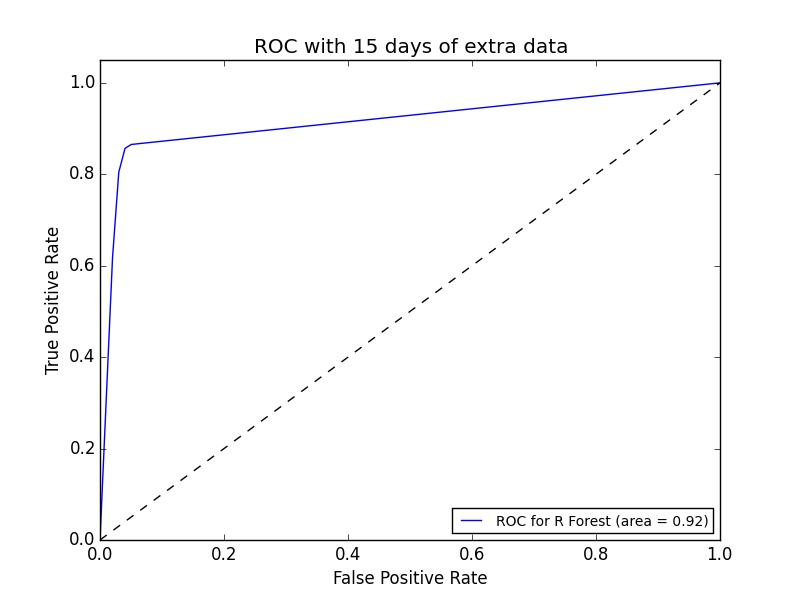
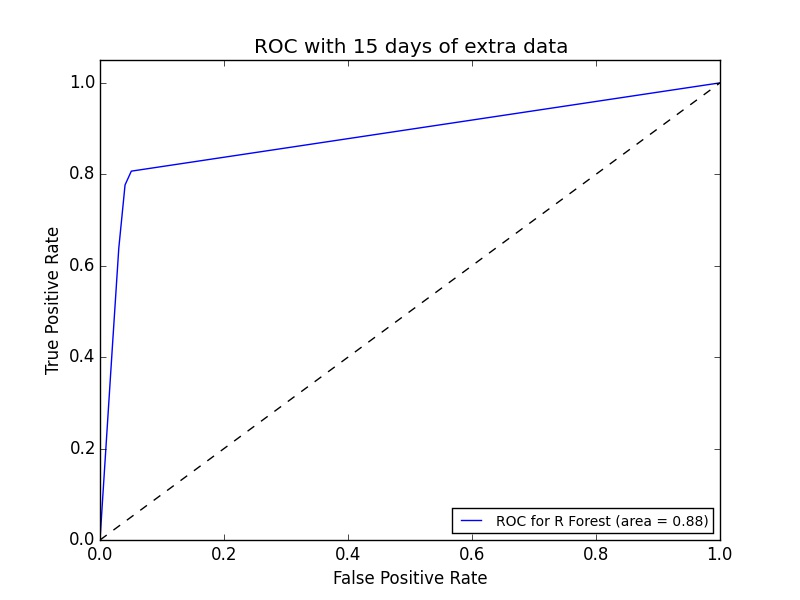
Added ordinal function for days sprayed

diff --git a/capstone/west_nile/src/west_nile_model.py b/capstone/west_nile/src/west_nile_model.py
@@ -179,7 +179,8 @@ def merge_files(in_train_file, in_weather_file, out_file, day):
         # print day_diff.days, traps.iloc[traps_idx, 0], spray.iloc[spray_idx, 0]
         if day_diff.days < 0:
             sprayed[traps_idx] = False
-            last_sprayed[traps_idx] = -1
+            last_sprayed[traps_idx] = 100
+            # last_sprayed[traps_idx] = -1
             traps_idx += 1
         else:
             break
@@ -199,14 +200,9 @@ def merge_files(in_train_file, in_weather_file, out_file, day):
                 date = traps.iloc[trap_idx_last_item, traps_date_idx]
                 if date < next_date:
                     sprayed[trap_idx_last_item] = True
-                    # print  (date - dates_sprayed[index]).days
                     day_diff = (date - dates_sprayed[index]).days
-                    # if day_diff < 14:
-                    #     last_sprayed[trap_idx_last_item] =  1
-                    # else:
-                    #     last_sprayed[trap_idx_last_item] =  2
-                    last_sprayed[trap_idx_last_item] =  day_diff
-
+                    last_sprayed[trap_idx_last_item] = sprayed_since_ordinal(day_diff)
+                    # last_sprayed[trap_idx_last_item] = day_diff
                     trap_idx_last_item += 1
                 else:
                     break
@@ -221,11 +217,8 @@ def merge_files(in_train_file, in_weather_file, out_file, day):
                         sprayed[trap_idx_last_item] = True
                         # print  (date - dates_sprayed[index]).days
                         day_diff = (date - dates_sprayed[index]).days
-                        # if day_diff < 14:
-                        #     last_sprayed[trap_idx_last_item] =  1
-                        # else:
-                        #     last_sprayed[trap_idx_last_item] =  2
-                        last_sprayed[trap_idx_last_item] =  day_diff
+                        last_sprayed[trap_idx_last_item] = sprayed_since_ordinal(day_diff)
+                        # last_sprayed[trap_idx_last_item] = day_diff
                         trap_idx_last_item += 1
                 else:
                     break
@@ -377,6 +370,28 @@ def plot_roc_auc(clf, plt, traps, labels, name):
     return plt, clf
 
 
+def sprayed_since_ordinal(days):
+    if days <= 5:
+        return 1
+    elif days <= 10:
+        return 2
+    elif days <= 15:
+        return 3
+    elif days <= 20:
+        return 4
+    elif days <= 30:
+        return 5
+    elif days <= 60:
+        return 6
+    elif days <= 90:
+        return 7
+    elif days <= 120:
+        return 8
+    else:
+        return 9
+    # return days
+
+
 def roc_auc(file_num, in_file, day):
     in_file = actual_file_name(in_file, day)
     traps = pd.read_csv(in_file)
@@ -454,7 +469,7 @@ def save_classifier(clf, name, num):
 
 
 if __name__ == '__main__':
-    day = 13
+    day = 14
     in_train_file = '../input/train.csv'
     out_train_file = '../output/train_clean.csv'
     clean_train(in_train_file, out_train_file, day)
